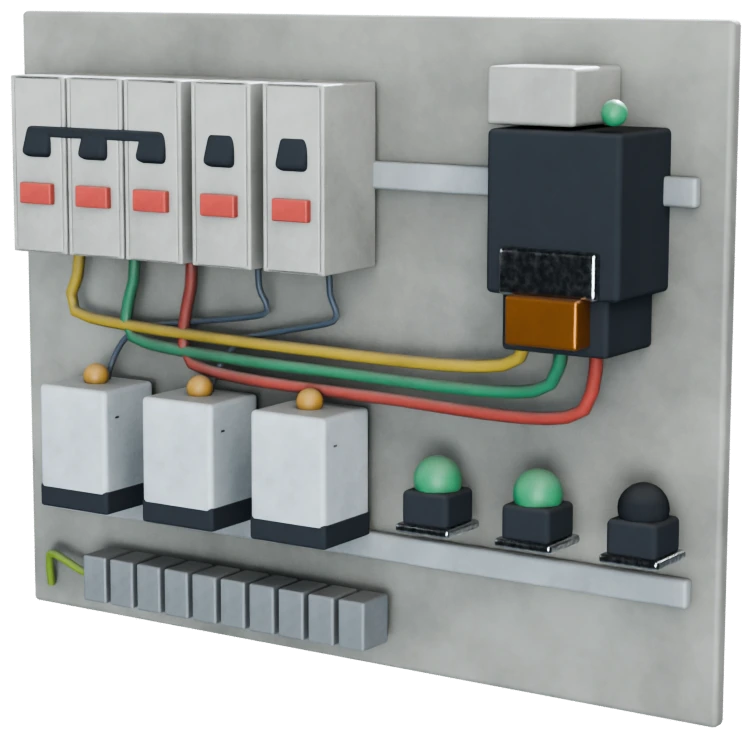
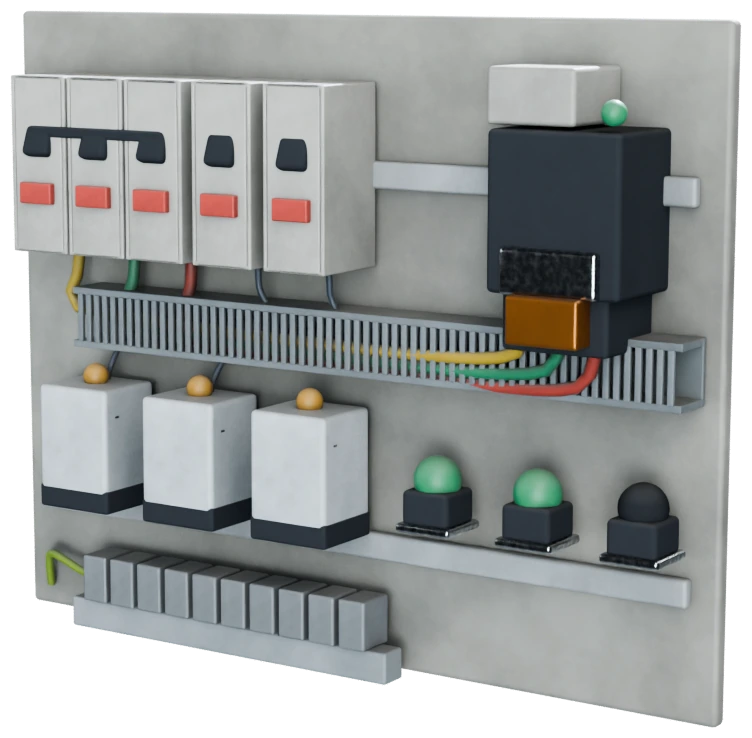
fix(cabinet): 柜内补梳齿线槽，线束有固定（R12-8）
R12-7 举一反三时发现：配电柜三相主回路与两路控制线的**走向本来是对的**
（端子出 → 下到走线高度 → 横走 → 再进目标端子），但柜里没有线槽，
一排元件加几根散线仍像"零件展柜"，与空调那边"管有线卡、线有线槽"的口径不一致。

在"走线高度" y=0.37（继电器顶 0.305 与断路器下端子 0.462 之间，也就是
几根线原来横穿的那一段）加一条 0.78m 梳齿线槽：槽底贴安装背板 + 上下侧壁
+ 前端一排梳齿。三条相线的槽内分层高度从 0.37−0.022i 改到 0.378−0.012i，
必须落在槽腔 0.335~0.405 内，否则会从槽底穿出去、在槽下面露一截线头。

## 试了两版

第一版 26 根齿、齿宽 13mm，渲出来像一排**梯子格栅**——线从齿缝里透出来，
反倒像"贴在槽面上"。真实线槽齿宽 5~8mm、缝 4~6mm，密到远看是一道竖纹。
改 64 根、齿宽 7mm，颜色 0x8f9599 → 0x7d8489（与背板拉开一档）。

## 验证

几何自检 12 条全过（线槽贴背板 3mm、齿与侧壁相接，无一悬空）/
pytest 574 / vitest 383 / vue-tsc 干净 / 首屏 5.00·48.07 未变 /
页面实截 0 报错 / 内容指纹未变。

Changed region(s): [[0.0918, 0.374, 0.9481, 0.5921], [0.0918, 0.8103, 0.5505, 0.935]]

diff --git a/apps/electro-assist/web/src/figures/devices/cabinet.ts b/apps/electro-assist/web/src/figures/devices/cabinet.ts
@@ -405,6 +405,35 @@ export function buildCabinet(): DeviceRig {
   parts.terminals = terminals
   root.add(terminals)
 
+  /* ------------------------------------------------------------ 梳齿线槽 */
+  /* 2026-11-12（本人：配电柜"没有线槽也没有扎带"，与空调那边的口径不一致）：
+     柜内一排元件、几根散线，本质还是个"零件展柜"。真实低压配电柜在元件之间
+     一定有一条**梳齿线槽**：导线先进槽、再从齿缝分到各元件，槽的存在本身就是
+     "线有固定"的证据。
+     位置取"走线高度" y=0.37——继电器的顶（0.305）与断路器下端子（0.462）之间，
+     刚好是几根线原来横穿的那一段；线进了槽就看不见，露出来的是进槽的落差
+     和出槽后接向接触器的那一段。 */
+  const ductMat = paintedMaterial(0x7d8489)
+  const duct = new Group()
+  const DUCT = { y: 0.37, h: 0.07, x0: -0.34, x1: 0.44, z: 0.016 }
+  const ductLen = DUCT.x1 - DUCT.x0
+  // 槽底（贴安装背板）+ 上下两条侧壁
+  duct.add(roundedBox(ductLen, DUCT.h, 0.006, ductMat, (DUCT.x0 + DUCT.x1) / 2, DUCT.y, DUCT.z, 0.001))
+  for (const dy of [-1, 1]) {
+    duct.add(
+      roundedBox(ductLen, 0.008, 0.048, ductMat, (DUCT.x0 + DUCT.x1) / 2, DUCT.y + dy * (DUCT.h / 2 - 0.004), DUCT.z + 0.027, 0.001),
+    )
+  }
+  /* 梳齿：**细密**。第一版 26 根、齿宽 13mm，渲出来像一排梯子格栅——
+     线从齿缝里透出来，反倒像"贴在槽面上"。真实线槽的齿是 5~8mm、缝 4~6mm，
+     密到远看是一道竖纹，线只在缝里露一点。 */
+  const TEETH = 64
+  for (let i = 0; i < TEETH; i += 1) {
+    const tx = DUCT.x0 + 0.012 + (i * (ductLen - 0.024)) / (TEETH - 1)
+    duct.add(roundedBox(0.007, DUCT.h - 0.014, 0.005, ductMat, tx, DUCT.y, DUCT.z + 0.05, 0.001))
+  }
+  board.add(duct)
+
 
   /* ------------------------------------------------------------ 导线 */
   /* 配电柜最有「电气味」的东西是线。没有线，一排元件只是零件展柜。
@@ -422,7 +451,9 @@ export function buildCabinet(): DeviceRig {
     const x0 = -0.26 + dx
     const y0 = 0.462
     const x1 = landingX[i]
-    const dropY = 0.37 - i * 0.022
+    /* 三条线在槽内的分层高度：必须落在槽腔（0.335~0.405）里，
+       否则线会从槽底穿出去、在槽下面露出一截"凭空出现"的线头。 */
+    const dropY = 0.378 - i * 0.012
     const material = new MeshStandardMaterial({
       color: phaseColors[i],
       metalness: 0.05,
